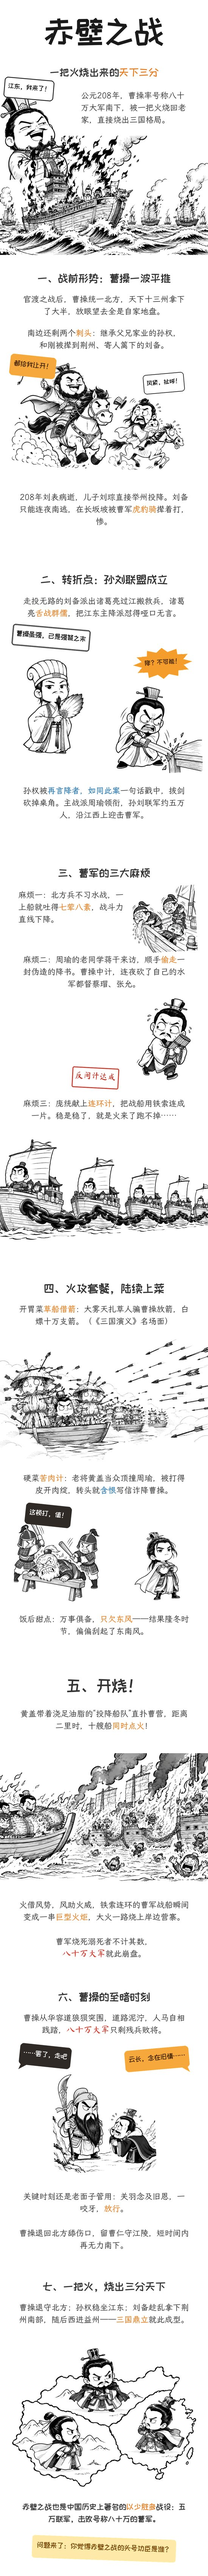
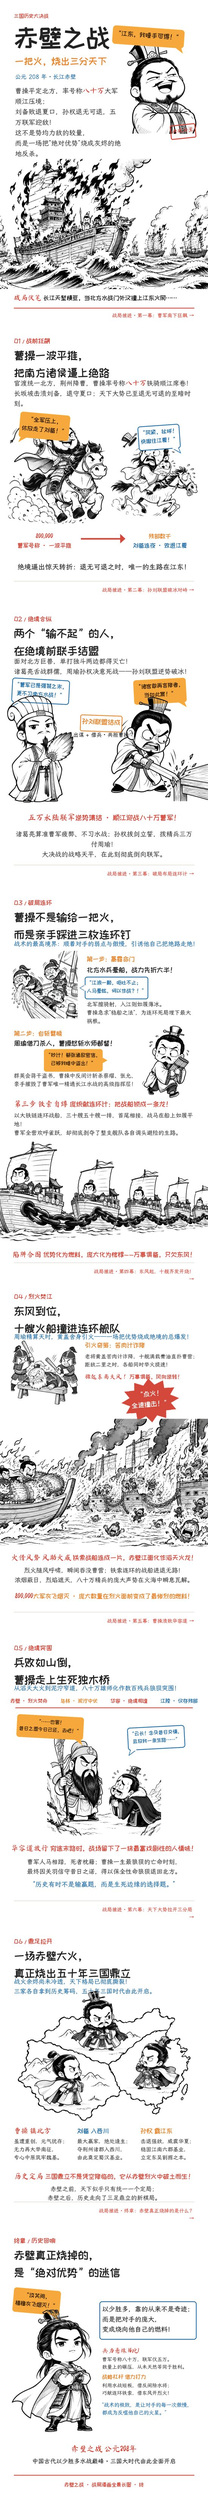
fix: compose 补齐气泡 tail 的 tc/lc/rc 分支，示例成品更新为赤壁之战定稿
- compose.py: paint_box() 原先只处理 bl/bc/br/tl/tr，缺 tc 分支，
  且未知 tail 值会静默落到 else 被当成 tl 绘制。现补齐 tc，并新增
  左右横向指针 lc/rc（横向分栏布局里气泡需指向左右两侧人物）。
  实测：修复前 tail=tc/lc/rc 三者渲染结果 md5 完全相同；修复后互不相同。
- examples/chibi/: 成品图换为赤壁之战定稿版（1080x12970，原为初版 13340）。
- SKILL.md / README.md: 参考成品描述改为实际选型（story x story-flow x
  项目自带黑白漫画风格包），不再笼统写成 bw-sketch。
- references/asset-prompts.md: 上游链改为指向 image-gen skill 与
  ~/.config/pic-flow/providers.json（同步工作区 AGENTS.md 的现状）。

来源：~/workspace/pic-flow 整理时发现该项目 scripts/compose.py 含未回流的
lc/rc 增强。回流后该项目用自身 scripts/ 重跑，8 个 block 与成品长图逐字节复现。

diff --git a/pipeline/compose.py b/pipeline/compose.py
@@ -298,7 +298,7 @@ def paint_box(d, rect, el):
                 p = [(x1 - 12, by), (x1 - 44, by), (x1 - 2, tip_y)]
             else:
                 p = [(cx - 16, by), (cx + 16, by), (cx, tip_y)]
-        else:
+        elif tail in ("tl", "tc", "tr"):
             by, tip_y = y0 + 2, y0 - th
             if tail == "tl":
                 p = [(x0 + 12, by), (x0 + 44, by), (x0 + 2, tip_y)]
@@ -306,12 +306,27 @@ def paint_box(d, rect, el):
                 p = [(x1 - 12, by), (x1 - 44, by), (x1 - 2, tip_y)]
             else:
                 p = [(cx - 16, by), (cx + 16, by), (cx, tip_y)]
-        tail_fill = bg if solid else box.get("fill", "#FFFFFF")
-        d.polygon(p, fill=tail_fill)
-        if not solid:
-            d.line(list(p) + [p[0]], fill=bc, width=3)
-            sx0, sx1 = sorted([p[0][0], p[1][0]])
-            d.rectangle([sx0 + 2, by - 5, sx1 - 2, by + 5], fill=tail_fill)
+        elif tail == "lc":
+            bx, tip_x = x0 + 2, x0 - th
+            cy = (y0 + y1) / 2
+            p = [(bx, cy - 16), (bx, cy + 16), (tip_x, cy)]
+        elif tail == "rc":
+            bx, tip_x = x1 - 2, x1 + th
+            cy = (y0 + y1) / 2
+            p = [(bx, cy - 16), (bx, cy + 16), (tip_x, cy)]
+        else:
+            p = []
+        if p:
+            tail_fill = bg if solid else box.get("fill", "#FFFFFF")
+            d.polygon(p, fill=tail_fill)
+            if not solid:
+                d.line(list(p) + [p[0]], fill=bc, width=3)
+                if tail in ("lc", "rc"):
+                    sy0, sy1 = sorted([p[0][1], p[1][1]])
+                    d.rectangle([bx - 5, sy0 + 2, bx + 5, sy1 - 2], fill=tail_fill)
+                else:
+                    sx0, sx1 = sorted([p[0][0], p[1][0]])
+                    d.rectangle([sx0 + 2, by - 5, sx1 - 2, by + 5], fill=tail_fill)
     return rect
 
 

diff --git a/references/asset-prompts.md b/references/asset-prompts.md
@@ -27,7 +27,8 @@
 - 人物/单人动作：`1024x1024`；横向场面（船队/战场/地图）：`1792x1024`。
 - 一期长图 12~16 张：可复用主角 2~3 张 + 每块专用 1~2 张 + 大场面 1~2 张。
 - gen_all.py 并行 4 路、断点续跑（已存在的文件跳过）；`--force` 强制重生成。
-- 上游链自动故障切换（见 ~/.dsh/AGENTS.md）；产物为白底 RGB，用
+- 上游链自动故障切换（本机上游由 image-gen skill 统一维护，其 sync.mjs 生成
+  ~/.config/pic-flow/providers.json）；产物为白底 RGB，用
   make_transparent.py 转透明+裁边后再排版。
 
 ## 赤壁之战实战例（assets.json 全文见 examples/chibi-assets.json）

diff --git a/SKILL.md b/SKILL.md
@@ -8,7 +8,8 @@ whenToUse: 用户想制作"长图 / 科普长图 / 漫画长图 / 一图读懂 /
 
 用「AI 生图素材 + 程序排版 + LLM 识图闭环校准」稳定产出高质量长图。
 成品规格：1080px 宽单栏、白底或主题底色、6~9 个 block 垂直拼接、总高 7000~14000px。
-参考成品：`~/workspace/pic-flow/output/赤壁之战_长图.jpg`（story × bw-sketch × story-flow）。
+参考成品：`~/workspace/pic-flow/output/赤壁之战_长图.jpg`
+（story × story-flow × 项目自带黑白漫画风格包 `style.json`，定稿 1080 × 12970px）。
 
 ## 第零步：需求引导 + 三维选型（先推荐，再确认，后开工）
 

diff --git a/README.md b/README.md
@@ -169,7 +169,7 @@ $EDITOR ~/.config/pic-flow/providers.json   # 填入你自己的 base 与 key
 
 | 示例 | 选型 | 位置 |
 |---|---|---|
-| 赤壁之战（半小时漫画风历史科普） | story × story-flow × bw-sketch | `examples/chibi/` |
+| 赤壁之战（半小时漫画风历史科普，定稿 1080 × 12970px） | story × story-flow × bw-sketch 系黑白漫画风格包（项目自带 `style.json`） | `examples/chibi/`（完整项目源码：`~/workspace/pic-flow/`） |
 | 水循环（教育讲解，多布局混用） | edu × info-feed/event-flow × vector-flat | `projects/water-cycle/` |
 
 ## 目录
